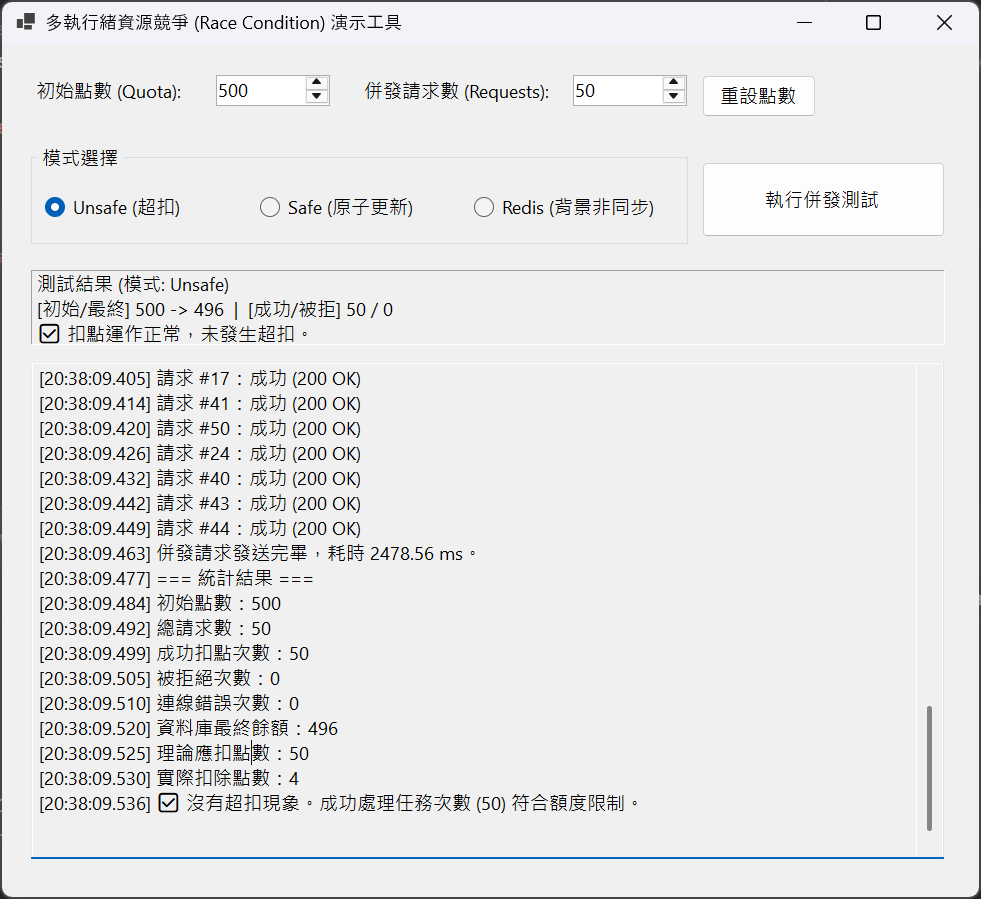
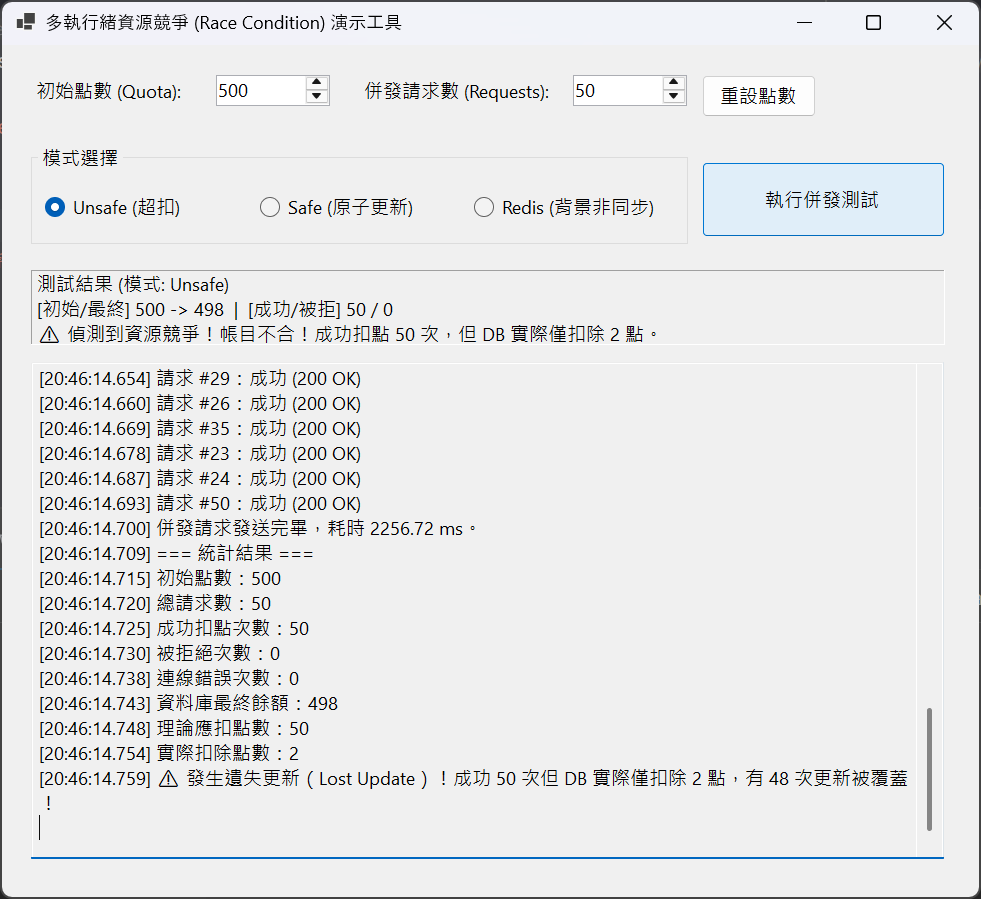
📝 docs(readme): 更新 README.md 加入雙重判定邏輯、EF SQL 日誌與背景序列化同步說明

diff --git a/README.md b/README.md
@@ -67,6 +67,23 @@ WHERE Id = 1 AND Points > 0;
 
 ---
 
+## 本專案的進階技術亮點
+
+為了提供更完善且符合企業級開發規範的展示，本專案在實作中加入了以下進階設計：
+
+1. **更嚴謹的資源競爭雙重判定**：
+   * 測試工具若只檢查「透支超扣（成功次數 > 初始額度）」，當初始餘額充足（例如 500 點）而併發請求較少（例如 50 次）時，便會漏判資源競爭。
+   * 因此，本工具改用**雙重條件判定**：只要滿足 **「成功次數 > 初始點數」**（透支超扣）或 **「成功次數 != 資料庫實際扣除點數」**（Lost Update / 帳目不合），即判定為發生資源競爭。這能極其清晰地展示出在 Unsafe 模式下「放行 50 次，但資料庫只扣了 2 點（其餘 48 次被更新覆蓋）」的遺失更新現象。
+2. **EF Core 原始 SQL 即時日誌記錄**：
+   * Web API 已配置 EF Core 的 `.LogTo(Console.WriteLine)` 與 `.EnableSensitiveDataLogging()`。
+   * 當您啟動 Web API 服務並進行測試時，可以直接在終端機（Console）中實時觀看到底層生成並執行的真實參數化 SQL 語句（如原子更新 `UPDATE [Members] SET [Points] = [Points] - 1 WHERE [Id] = 1 AND [Points] > 0` 以及參數具體數值），非常利於教學展示。
+3. **Rider / Visual Studio 設計器編輯支援**：
+   * 本專案的 WinForm UI 配置已全面重構為與 IDE 設計檢視器相容的標準 `Form1.Designer.cs` 排版，您可以在 Rider 或 VS 中直接開啟設計器介面進行拖拉或屬性編輯。
+4. **序列化背景寫回防範時序錯亂**：
+   * Redis 扣點後的資料庫同步採用單執行緒的背景佇列進行循序處理（`await reader.ReadAsync()`），確保寫入資料庫的點數順序與 Redis 扣除順序完全一致，避免背景平行寫入造成 Out-of-Order 的覆蓋問題。
+
+---
+
 ## 專案結構
 
 * **`src/ConcurrencyRaceConditionDemo.WebApi`**：提供測試的 Minimal API 端點。

diff --git a/.archive/update_readme_status.plan.md b/.archive/update_readme_status.plan.md
@@ -1,0 +1,11 @@
+# Update README Status Plan
+
+這個計畫旨在更新 README.md，使其內容能精準反映目前專案的最新現況（包括 EF 原始 SQL 輸出、雙重資源競爭判定以及 Designer 相容性）。
+
+- [ ] **步驟 1: 修改 README.md 內容**
+  - **說明**：在 `README.md` 中新增以下說明：
+    - 解說如何透過 API 終端機觀看產生的原始 SQL 語法（已配置 `LogTo`）。
+    - 說明 WinForm 如何同時檢測「透支超扣」與「遺失更新（帳目不合）」雙重競爭 Bug。
+    - 補充說明背景同步服務如何透過序列化排隊，防止 Out-of-Order 更新覆蓋。
+- [x] **步驟 2: 提交與推送**
+  - **說明**：確認內容無誤後，將變更提交並推送到 GitHub 遠端儲存庫，並封存此計畫書。

diff --git a/@tree.md b/@tree.md
@@ -6,7 +6,8 @@
 │   ├── concurrency_race_condition_demo.plan.md
 │   ├── fix_concurrency_detection.plan.md
 │   ├── log_ef_raw_sql.plan.md
-│   └── redis_concurrency_demo.plan.md
+│   ├── redis_concurrency_demo.plan.md
+│   └── update_readme_status.plan.md
 ├── @tree.md
 ├── .gitignore
 ├── README.md
